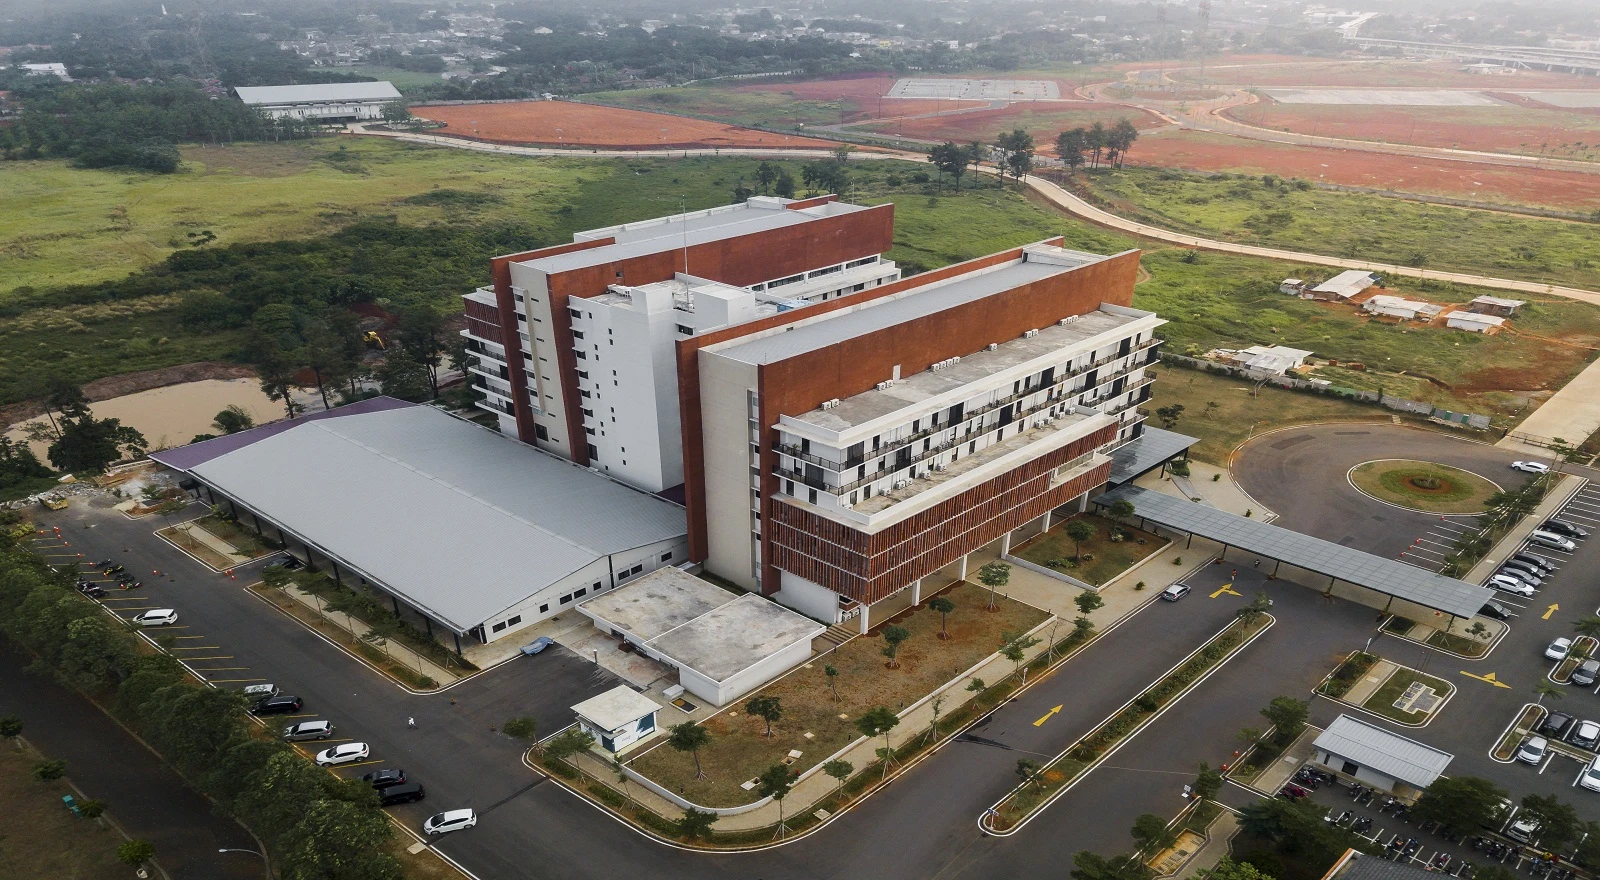
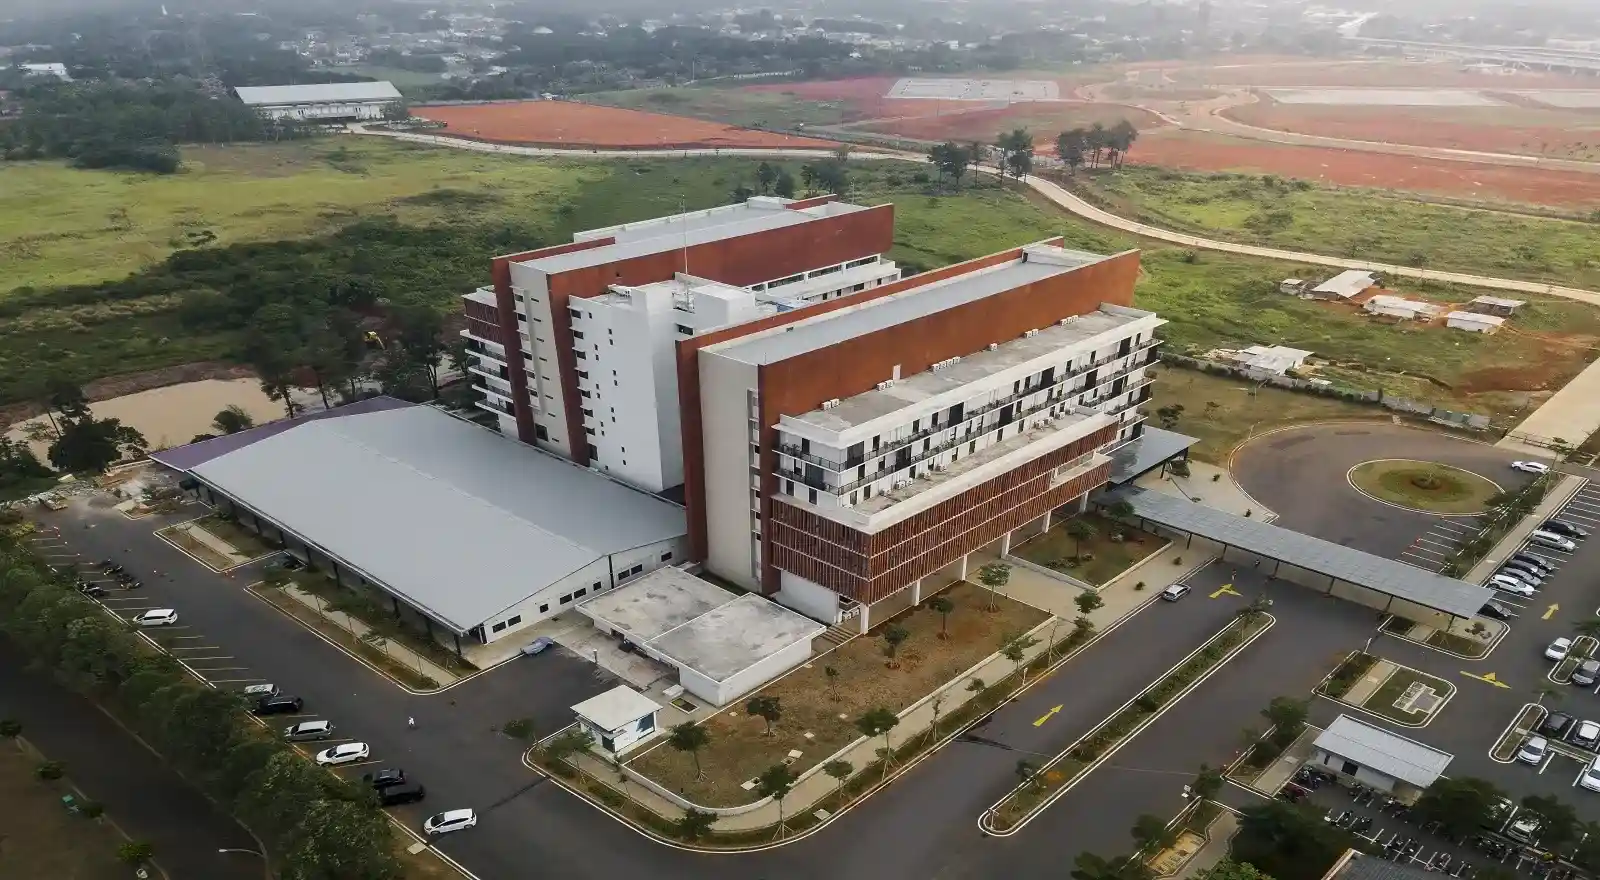
V0.8.2 Patch
Home welcome carousel image (compressed)
Smooth scrolling navigation animation (updated)
Home organization structure charted size (updated)

diff --git a/website_bem_nuxt/components/Navbar.vue b/website_bem_nuxt/components/Navbar.vue
@@ -82,7 +82,7 @@
           transition-all duration-100 ease-in-out
           overflow-hidden
         ">
-          <NuxtLink v-for="subnav in nav.subnavs" :key="`subnav-${subnav.name}`" :to="{ path: nav.url, hash: subnav.hash }" class="
+          <NuxtLink v-for="subnav in nav.subnavs" :key="`subnav-${subnav.name}`" :to="{ path: nav.url, hash: subnav.hash }" @click.prevent="enableSmoothScroll(nav.url)" class="
             flex justify-center items-center
             w-full h-12
             p-[0.2rem 0 0.2rem 0]
@@ -194,7 +194,16 @@
     })
   }
 
-  const navs = ref([
+  const enableSmoothScroll = (url) => {
+    if (useRoute().path===url) {
+      document.documentElement.classList.add('scroll-smooth');
+      setTimeout(() => {
+        document.documentElement.classList.remove('scroll-smooth');
+      }, 300); 
+    }
+  }
+
+  const navs = [
     {
       name: 'Beranda',
       url: '/',
@@ -207,7 +216,7 @@
       subnavs: [
         {
           name: 'Tentang Kami',
-          hash: '',
+          hash: '#top',
         },
         {
           name: 'Struktur Kabinet',
@@ -238,7 +247,7 @@
       subnavs: false,
       hideSubNav: true,
     },
-  ]);
+  ];
 </script>
 
 <style lang="scss" scoped>

diff --git a/website_bem_nuxt/layouts/default.vue b/website_bem_nuxt/layouts/default.vue
@@ -8,7 +8,7 @@
       bg-gradient-to-tr from-bemkmuaj-white via-bemkmuaj-gold via-[25%] to-bemkmuaj-orange
     ">
       <slot />
-      <NuxtLink ref="toTopBtn" :to="{ hash: '#top' }" class="
+      <NuxtLink ref="toTopBtn" :to="{ hash: '#top' }" @click.prevent="enableSmoothScroll" class="
         fixed bottom-[4.5rem] right-8
         flex justify-center items-center
         w-14 h-14
@@ -37,6 +37,15 @@ onMounted(() => {
     if (window.scrollY < 750) hideToTopBtn.value = true;
   })
 })
+
+const enableSmoothScroll = () => {
+  // const routeName = ref(useRoute().name)
+  console.log(useRoute())
+  document.documentElement.classList.add('scroll-smooth');
+  setTimeout(() => {
+    document.documentElement.classList.remove('scroll-smooth');
+  }, 300);
+}
 </script>
 
 

diff --git a/website_bem_nuxt/nuxt.config.ts b/website_bem_nuxt/nuxt.config.ts
@@ -31,6 +31,16 @@ export default defineNuxtConfig({
     }
   },
   runtimeConfig: {
+    FB_TYPE: process.env.FB_TYPE,
+    FB_PRIVATE_KEY_ID: process.env.FB_PRIVATE_KEY_ID,
+    FB_PRIVATE_KEY: process.env.FB_PRIVATE_KEY,
+    FB_CLIENT_EMAIL: process.env.FB_CLIENT_EMAIL,
+    FB_CLIENT_ID: process.env.FB_CLIENT_ID,
+    FB_AUTH_URI: process.env.FB_AUTH_URI,
+    FB_TOKEN_URI: process.env.FB_TOKEN_URI,
+    FB_AUTH_PROVIDER_X509_CERT_URL: process.env.FB_AUTH_PROVIDER_X509_CERT_URL,
+    FB_CLIENT_X509_CERT_URL: process.env.FB_PRIVATE_KEY_ID,
+    FB_UNIVERSE_DOMAIN: process.env.FB_UNIVERSE_DOMAIN,
     public: {
       PASSWORD: process.env.PASSWORD,
       FB_API_KEY: process.env.FB_API_KEY,

diff --git a/website_bem_nuxt/pages/index.vue b/website_bem_nuxt/pages/index.vue
@@ -167,7 +167,7 @@
           Bagan Struktur Organisasi<br>
           BEM KM-UAJ
         </h2>
-        <div class="">
+        <div class="w-full">
           <NuxtImg src="/Bagan_BEM_KM-UAJ.webp" alt="" class="w-full" />
         </div>
         <NuxtLink to="/profile" class="
@@ -314,7 +314,6 @@ onMounted(async() => {
 });
 
 onMounted(() => {
-
   let currentI = 0;
 
   const welcomeCarouselImages = welcomeCarousel.value!.querySelectorAll('img')

diff --git a/website_bem_nuxt/assets/scss/global.scss b/website_bem_nuxt/assets/scss/global.scss
@@ -4,7 +4,7 @@
 @tailwind utilities;
 
 html {
-  @apply scroll-smooth leading-normal;
+  @apply leading-normal;
 }
 
 body {
